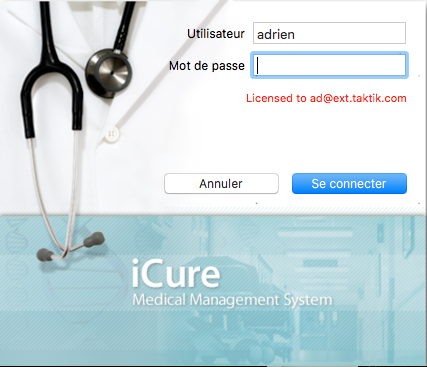
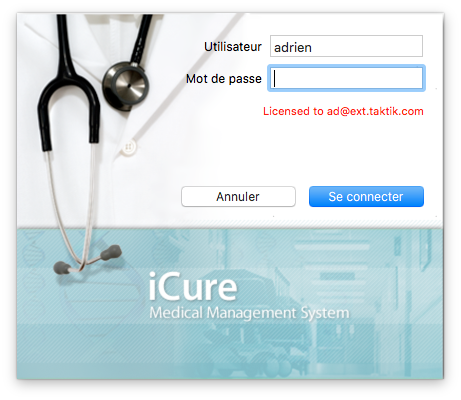
Ajout de contenu

diff --git a/docs/bienvenue_dans_icure.rst b/docs/bienvenue_dans_icure.rst
@@ -63,7 +63,12 @@ Installer iCure
 
 Voici comment procéder à l’installation de iCure sur votre Macintosh.
 
-.. admonition:: Pour installer iCure :
+.. attention::
+
+  Ceci est la procédure pour l'ancien iCure (3.7.2)
+  Il n'y a pas encore de solution simple pour l'installation d'iCure 4
+
+.. admonition:: Pour installer iCure
 
   1. Double-cliquez sur l’image iCure.dmg.
   2. Glissez l’icône iCure dans le dossier Applications.
@@ -74,3 +79,48 @@ Voici comment procéder à l’installation de iCure sur votre Macintosh.
   7. Introduisez vos coordonnées.
   8. Introduisez un login et un mot de passe pour ren- trer dans iCure.
   9. Appuyez sur démarrer.
+
+.. COMMENTAIRE - Il faut ajouter ici une nouvelle procédure pour le premier lancement
+  après installation, avec des captures d'écran.
+
+Accéder à iCure
+===============
+
+A chaque fois que vous démarrez le programme, vos login et mot de passe vous sont demandés. Le but est de garantir la confidential- ité des dossiers patients. De cette manière, ils ne seront consulta- bles que par les personnes possédant un nom d’utilisateur et un mot de passe.
+
+.. admonition:: Pour accéder à iCure
+
+  1. Double-cliquez sur l'icône d'iCure pour démarrer le logiciel, une fenêtre de connexion apparaît.
+  2. Introduisez votre nom d’utilisateur et votre mot de passe dans les champs adéquats.
+  3. Cliquez sur « Login ».
+
+.. image:: images/login.png
+
+iCure en un coup d'oeil
+=======================
+
+Ouvrez plusieurs fenêtres à la fois (raccourci «⌘-N»). Cette possibilité d’ouverture simultanée de fenêtres iCure permet, par exemple, de travailler sur un dossier patient tout en visualisant la fiche administrative de son médecin, d’ouvrir plusieurs dossiers en même temps...
+
+La fenêtre iCure
+----------------
+
+.. image:: images/main_window.png
+
+1. La **barre de sélection des modules** sert à passer d’un module à l’autre.
+2. La **barre d’outils** permet d’effectuer une série d’actions propres à chaque module.
+3. Le **champ de recherche** permet de retrouver des éléments et d’effectuer une sélection sur base de critères pré déterminés.
+4. L’**inspecteur** permet de faire apparaître la fenêtre Sélection qui propose certaines actions de configuration.
+5. Cette **colonne de gauche** permet d’agir dans le module choisi ou encore sur la hiérarchie d’un dossier patient sélectionné. De cette colonne, il est possible d’accéder aux différents éléments de la structure interne du module.
+6. La **fenêtre principale** permet de remplir les champs et donc de compléter iCure.
+7. Les **boutons d’actions** permettent d’ajouter ou supprimer des éléments et proposent une série de fonctions.
+
+.. Trouver comment insérer une image des boutons d'actions dans le numéro 7
+
+La colonne de gauche dans un dossier patient
+--------------------------------------------
+
+Utilisation de l'inspecteur
+---------------------------
+
+Les préferences iCure
+---------------------
